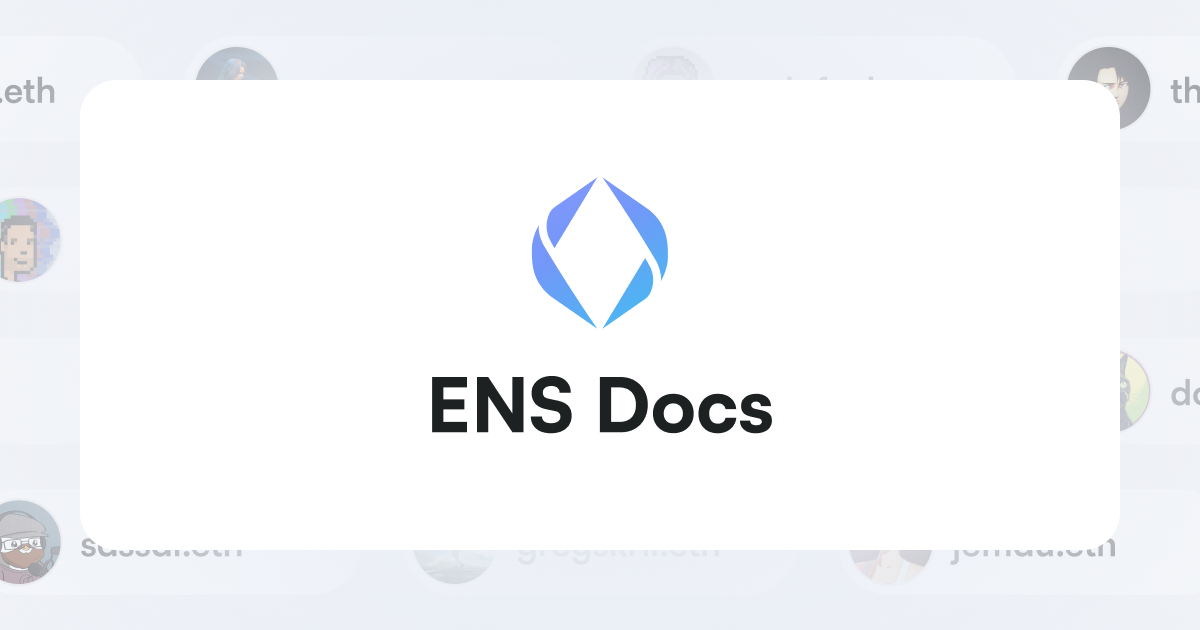
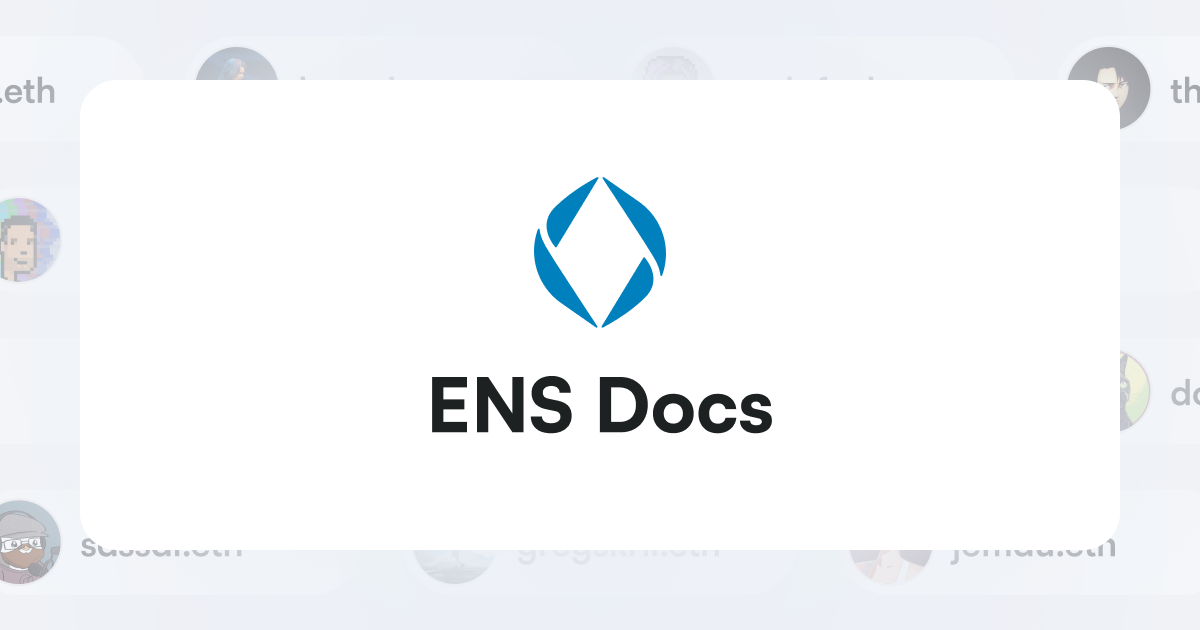
Misc fixes (dark mode bug, update branding) (#315)

Changed region(s): [[0.4317, 0.2714, 0.555, 0.5127]]

diff --git a/app/app/opengraph/[...slug]/route.tsx b/app/app/opengraph/[...slug]/route.tsx
@@ -7,44 +7,6 @@ import { readFile } from 'node:fs/promises';
 import { getProfilePicture } from '@/utils/contributorHelper';
 import { navigation } from '#/config/navigation';
 
-// Route segment config
-// export const runtime = 'nodejs';
-// export const runtime = 'edge';
-// export const dynamic = 'error';
-// eslint-disable-next-line unicorn/prevent-abbreviations
-// export const dynamicParams = false;
-// export const revalidate = false;
-
-// eslint-disable-next-line unicorn/prevent-abbreviations
-// export async function generateStaticParams() {
-//     const pages = ['a/b'];
-
-//     return pages.map((slug) => ({
-//         slug: slug.split('/'),
-//     }));
-// }
-
-// export async function generateImageMetadata({
-//     params,
-// }: {
-//     params: { slug: string };
-// }) {
-//     // const images = await getOGImages(params.id);
-//     const images = [{ text: 'Other text' }, { text: 'O:' + params.slug }];
-
-//     return images.map((image, index) => ({
-//         id: index,
-//         size: { width: 1600, height: 840 },
-//         alt: image.text,
-//         contentType: 'image/png',
-//     }));
-// }
-
-// Font
-// const interSemiBold = fetch(
-//     new URL('public/Inter-SemiBold.ttf', import.meta.url)
-// ).then((response) => response.arrayBuffer());
-
 // eslint-disable-next-line unicorn/prevent-abbreviations
 export async function generateStaticParams() {
     if (process.env.NODE_ENV !== 'production') return [];
@@ -148,89 +110,29 @@ export async function GET(request: NextRequest) {
                         }}
                     >
                         <svg
-                            width="227"
+                            width="228"
                             height="100"
-                            viewBox="0 0 227 100"
+                            viewBox="0 0 228 100"
                             fill="none"
                             xmlns="http://www.w3.org/2000/svg"
                         >
-                            <path
-                                d="M12.6045 23.5283C13.54 21.7914 14.8903 20.3107 16.536 19.2168L44.156 0L15.856 46.6253C15.856 46.6253 13.3833 42.4619 12.4189 40.3552C11.2172 37.7064 10.6112 34.8281 10.6432 31.9213C10.6752 29.0147 11.3446 26.1501 12.6045 23.5283ZM1.20533 55.6918C1.51718 60.1506 2.78154 64.4915 4.91376 68.4238C7.04599 72.3564 9.99684 75.7893 13.5688 78.4933L44.1188 99.718C44.1188 99.718 25.0049 72.2726 8.88303 44.9625C7.25084 42.0771 6.15358 38.9226 5.6438 35.6497C5.41812 34.1677 5.41812 32.6601 5.6438 31.178C5.22343 31.9543 4.40745 33.5433 4.40745 33.5433C2.77276 36.8649 1.65945 40.4171 1.10642 44.0756C0.788106 47.9427 0.82121 51.8305 1.20533 55.6918ZM79.095 59.3872C78.1057 57.2808 75.6578 53.1171 75.6578 53.1171L47.4075 99.718L75.0273 80.5134C76.6731 79.4195 78.0234 77.939 78.959 76.2021C80.2188 73.5802 80.888 70.7156 80.9203 67.8092C80.9523 64.9024 80.3462 62.0238 79.1444 59.375L79.095 59.3872ZM90.3084 44.0384C89.9965 39.5799 88.7322 35.2387 86.6002 31.3064C84.4679 27.3741 81.517 23.9409 77.945 21.237L47.4444 0C47.4444 0 66.5459 27.4455 82.6804 54.7555C84.3081 57.6418 85.4011 60.7963 85.9072 64.0683C86.1328 65.5503 86.1328 67.0579 85.9072 68.5399C86.3276 67.7637 87.1435 66.1747 87.1435 66.1747C88.7783 62.853 89.8917 59.3009 90.4444 55.6424C90.767 51.7756 90.738 47.8878 90.3581 44.0262L90.3084 44.0384Z"
-                                fill="url(#paint0_linear_1655_5073)"
-                            />
-                            <path
-                                d="M140.968 70.7317V62.7256H122.122V52.6256H139.182V45.0506H122.122V35.0738H140.968V27.0677H113.624V70.7317H140.968Z"
-                                fill="url(#paint1_linear_1655_5073)"
-                            />
-                            <path
-                                d="M186.547 70.7317V27.0677H178.048V55.9512L159.881 27.0677H149.288V70.7317H157.787V39.7543L177.617 70.7317H186.547Z"
-                                fill="url(#paint2_linear_1655_5073)"
-                            />
-                            <path
-                                d="M226.238 37.4756C225.252 32.5488 221.188 26.1439 210.595 26.1439C202.343 26.1439 195.384 32.0561 195.384 39.8158C195.384 46.4055 199.879 50.9012 206.838 52.3177L212.935 53.5494C216.323 54.2268 218.232 56.1976 218.232 58.7226C218.232 61.8018 215.707 64.0805 211.149 64.0805C204.991 64.0805 201.973 60.2006 201.604 55.8896L193.721 57.9835C194.398 64.2037 199.51 71.6555 211.088 71.6555C221.249 71.6555 226.854 64.8811 226.854 58.1683C226.854 52.0098 222.604 46.8366 214.66 45.2969L208.563 44.1268C205.36 43.511 203.821 41.6018 203.821 39.2C203.821 36.3055 206.531 33.6573 210.657 33.6573C216.199 33.6573 218.17 37.414 218.601 39.8158L226.238 37.4756Z"
-                                fill="url(#paint3_linear_1655_5073)"
-                            />
+                            <g clip-path="url(#clip0_1593_5439)">
+                                <path
+                                    fill-rule="evenodd"
+                                    clip-rule="evenodd"
+                                    d="M33.5223 15.077C33.1353 14.8069 32.6585 15.2675 32.9178 15.6608C37.2488 22.2296 51.6458 44.0856 53.6345 47.3665C53.9316 47.8566 54.2722 48.3959 54.6374 48.9741L54.6376 48.9743C56.6838 52.214 59.503 56.6776 59.7761 60.5819C59.8082 61.0412 60.4452 61.1344 60.6054 60.7025C60.8639 60.0058 61.139 59.1743 61.3954 58.2244C64.6324 46.2338 59.9313 33.51 49.7215 26.3838L33.5223 15.077ZM30.8586 15.647L11.4686 47.4617C11.3165 47.7112 10.9632 47.739 10.7746 47.5157C9.06758 45.4946 2.70804 36.8961 10.5773 29.0591C17.7581 21.9078 26.9043 16.809 30.294 15.0468C30.6786 14.8469 31.0837 15.2777 30.8586 15.647ZM29.7749 84.9234C30.1618 85.1935 30.6387 84.7328 30.3793 84.3395C26.0483 77.7707 11.6514 55.9147 9.6626 52.6338C9.36548 52.1437 9.02485 51.6044 8.65958 51.026C6.61335 47.7863 3.79411 43.3228 3.52101 39.4185C3.48889 38.9591 2.85192 38.8659 2.69168 39.2978C2.43327 39.9945 2.15815 40.826 1.90173 41.7759C-1.33524 53.7666 3.36584 66.4903 13.5756 73.6165L29.7749 84.9234ZM51.8301 52.5352L32.4401 84.35C32.215 84.7193 32.6201 85.1501 33.0047 84.9502C36.3944 83.1879 45.5407 78.0892 52.7214 70.9379C60.5906 63.1009 54.2311 54.5024 52.5241 52.4813C52.3355 52.258 51.9822 52.2858 51.8301 52.5352ZM120.059 30.0646C124.965 35.0469 127.436 42.6194 127.644 52.2092C127.652 52.5617 127.372 52.8539 127.019 52.8651L91.3473 53.9912C90.9863 54.0026 90.7034 54.3081 90.7281 54.668C91.2814 62.6987 95.4356 66.6848 102.812 66.452C109.036 66.2554 112.178 63.4409 113.155 58.5204C113.22 58.1945 113.511 57.9582 113.843 57.9769L126.267 58.6776C126.667 58.7001 126.951 59.0788 126.853 59.4668C124.091 70.3685 115.868 76.0354 103.128 76.4376C95.2505 76.6863 88.9092 74.3623 84.5367 70.3608C79.539 65.7732 76.9045 59.1926 76.6364 50.7199C76.381 42.6507 78.3857 35.7218 83.1843 30.8249C87.4906 26.3474 93.4767 23.8362 101.354 23.5875C109.332 23.3356 115.674 25.6596 120.059 30.0646ZM101.664 33.3714C97.5231 33.5021 94.6326 34.805 92.7936 37.3872C91.5579 39.0819 90.8383 41.1792 90.5561 43.6054C90.5115 43.9888 90.8238 44.3151 91.2101 44.3029L112.293 43.6373C112.676 43.6252 112.966 43.2859 112.906 42.9082C112.463 40.1042 111.57 37.7582 109.836 36.0414C107.853 34.0847 105.299 33.2566 101.664 33.3714ZM181.603 60.6285C182.912 71.7844 192.771 76.4548 204.577 76.4548C216.399 76.4548 227.11 72.62 227.11 60.5101C227.11 48.5948 216.068 46.1176 207.112 44.1082L206.901 44.0609C200.131 42.5472 196.494 41.3362 196.494 37.9051C196.494 34.3731 199.929 32.8593 204.072 32.8593C208.902 32.8593 212.162 35.1654 212.704 40.3067C212.745 40.6918 213.097 40.9763 213.479 40.9112L225.191 38.9164C225.531 38.8586 225.766 38.5412 225.717 38.2008C224.141 27.176 214.785 23.5751 203.87 23.5751C192.957 23.5751 183.156 27.9145 183.156 39.0152C183.156 49.4095 192.048 52.4369 201.748 54.758C209.73 56.6754 213.57 57.8863 213.57 61.2165C213.57 64.9504 210.64 67.0696 204.88 67.0696C199.449 67.0696 195.507 64.5589 195.021 59.002C194.988 58.6217 194.651 58.3318 194.271 58.3802L182.157 59.9267C181.812 59.9708 181.563 60.2833 181.603 60.6285ZM178.238 44.4256C178.238 37.8661 177.733 32.4167 173.691 28.3801C170.458 25.1508 166.719 23.6371 160.253 23.6371C154.151 23.6371 148.747 25.7272 145.905 31.1212C145.76 31.3957 145.298 31.2976 145.298 30.9874V25.4958C145.298 25.1381 145.008 24.8481 144.65 24.8481H131.902C131.544 24.8481 131.253 25.1381 131.253 25.4958V75.3664C131.253 75.7241 131.544 76.0141 131.902 76.0141H144.751C145.109 76.0141 145.399 75.7241 145.399 75.3664V47.7558C145.399 37.3616 150.451 34.435 154.796 34.435C157.828 34.435 159.545 34.7378 161.364 36.4533C163.587 38.5725 163.991 40.9945 163.991 45.6366V75.3664C163.991 75.7241 164.281 76.0141 164.64 76.0141H177.59C177.948 76.0141 178.238 75.7241 178.238 75.3664V44.4256Z"
+                                    fill="#0080BC"
+                                />
+                            </g>
                             <defs>
-                                <linearGradient
-                                    id="paint0_linear_1655_5073"
-                                    x1="151.401"
-                                    y1="111.536"
-                                    x2="98.1697"
-                                    y2="-100.776"
-                                    gradientUnits="userSpaceOnUse"
-                                >
-                                    <stop stop-color="#44BCF0" />
-                                    <stop
-                                        offset="0.378795"
-                                        stop-color="#7298F8"
+                                <clipPath id="clip0_1593_5439">
+                                    <rect
+                                        width="226.22"
+                                        height="100"
+                                        fill="white"
+                                        transform="translate(0.890137)"
                                     />
-                                    <stop offset="1" stop-color="#A099FF" />
-                                </linearGradient>
-                                <linearGradient
-                                    id="paint1_linear_1655_5073"
-                                    x1="151.401"
-                                    y1="111.536"
-                                    x2="98.1697"
-                                    y2="-100.776"
-                                    gradientUnits="userSpaceOnUse"
-                                >
-                                    <stop stop-color="#44BCF0" />
-                                    <stop
-                                        offset="0.378795"
-                                        stop-color="#7298F8"
-                                    />
-                                    <stop offset="1" stop-color="#A099FF" />
-                                </linearGradient>
-                                <linearGradient
-                                    id="paint2_linear_1655_5073"
-                                    x1="151.401"
-                                    y1="111.536"
-                                    x2="98.1697"
-                                    y2="-100.776"
-                                    gradientUnits="userSpaceOnUse"
-                                >
-                                    <stop stop-color="#44BCF0" />
-                                    <stop
-                                        offset="0.378795"
-                                        stop-color="#7298F8"
-                                    />
-                                    <stop offset="1" stop-color="#A099FF" />
-                                </linearGradient>
-                                <linearGradient
-                                    id="paint3_linear_1655_5073"
-                                    x1="151.401"
-                                    y1="111.536"
-                                    x2="98.1697"
-                                    y2="-100.776"
-                                    gradientUnits="userSpaceOnUse"
-                                >
-                                    <stop stop-color="#44BCF0" />
-                                    <stop
-                                        offset="0.378795"
-                                        stop-color="#7298F8"
-                                    />
-                                    <stop offset="1" stop-color="#A099FF" />
-                                </linearGradient>
+                                </clipPath>
                             </defs>
                         </svg>
                     </div>

diff --git a/app/local/content/prose/code/_legacy/CopyButton.tsx b/app/local/content/prose/code/_legacy/CopyButton.tsx
@@ -8,55 +8,9 @@ import { FiPaperclip } from 'react-icons/fi';
 
 import { ClipboardIcon } from '@/components/icons/ClipboardIcon';
 
-const getCopiedLabel = (copyCount) => {
-    // if (copyCount > 200) {
-    //     return 'Buy a new mouse!';
-    // }
-
-    if (copyCount > 200) {
-        return 'Yes, its copied!';
-    }
-
-    if (copyCount > 120) {
-        return 'Copied!';
-    }
-
-    if (copyCount > 100) {
-        // Written by co-pilot
-        return 'Determination... I like it';
-    }
-
-    if (copyCount > 60) {
-        // Written by co-pilot
-        return 'Sigh.... you are still copying?';
-    }
-
-    if (copyCount > 50) {
-        // Written by co-pilot
-        return 'You are a mad lad';
-    }
-
-    if (copyCount > 45) {
-        // Written by co-pilot
-        return 'Ok... you are just showing off now';
-    }
-
-    if (copyCount > 35) {
-        // Written by co-pilot
-        return 'I hope you actually know what code youre copying 🤔';
-    }
-
-    if (copyCount > 30) {
-        // Written by co-pilot
-        return 'BUILD BUILD BUILD BUILD BUILD BUILD!!!!';
-    }
-
+const getCopiedLabel = (copyCount: number) => {
     if (copyCount > 25) {
-        return 'Coding Powers Unlocked 😎🚀';
-    }
-
-    if (copyCount > 20) {
-        return 'Seriously? You have got to be kidding right?!';
+        return 'Yes, its copied!';
     }
 
     if (copyCount > 15) {
@@ -93,10 +47,10 @@ export const CopyButton = ({ code }) => {
             <motion.button
                 type="button"
                 className={clsx(
-                    'group/button absolute right-4 top-3.5 h-7 w-auto overflow-hidden whitespace-nowrap rounded-full py-1 pl-2 pr-3 text-2xs font-medium opacity-0 backdrop-blur transition focus:opacity-100 group-hover:opacity-100',
+                    'group/button text-2xs absolute right-4 top-3.5 h-7 w-auto overflow-hidden whitespace-nowrap rounded-full py-1 pl-2 pr-3 font-medium opacity-0 backdrop-blur transition focus:opacity-100 group-hover:opacity-100',
                     copied
                         ? 'ring-ens-400/20 bg-ens-light-blue-400/10 ring-1 ring-inset'
-                        : 'bg-white/5 hover:bg-white/7.5 dark:bg-white/2.5 dark:hover:bg-white/5'
+                        : 'hover:bg-white/7.5 dark:bg-white/2.5 bg-white/5 dark:hover:bg-white/5'
                 )}
                 onClick={() => {
                     window.navigator.clipboard.writeText(code).then(() => {
@@ -124,7 +78,7 @@ export const CopyButton = ({ code }) => {
                     <motion.span
                         aria-hidden={!copied}
                         className={clsx(
-                            'pointer-events-none flex w-full items-center justify-end gap-1 whitespace-nowrap text-ens-light-blue-400 transition duration-300',
+                            'text-ens-light-blue-400 pointer-events-none flex w-full items-center justify-end gap-1 whitespace-nowrap transition duration-300',
                             !copied && 'opacity-0'
                         )}
                         initial={{ y: 0 }}

diff --git a/app/local/content/prose/code/snippet/CodeSnippet.tsx b/app/local/content/prose/code/snippet/CodeSnippet.tsx
@@ -31,13 +31,9 @@ export type CodePanelProperties = {
 } & CodeSnippetProperties;
 
 export const CodePanel: FC<PropsWithChildren<CodePanelProperties>> = ({
-    // tag,
-    // label,
-    // code,
     link,
     stackblitz,
     title,
-    hideCopy: _hideCopy,
     language,
     variant,
     children,
@@ -99,7 +95,7 @@ export const CodePanel: FC<PropsWithChildren<CodePanelProperties>> = ({
         >
             <div
                 className={clsx(
-                    'overflow-hidden border border-ens-light-border dark:border-ens-dark-border',
+                    'border-ens-light-border dark:border-ens-dark-border overflow-hidden border',
                     isStandaloneCodeSnippet ? 'rounded-xl' : 'rounded-b-xl'
                 )}
             >
@@ -121,7 +117,7 @@ export const CodePanel: FC<PropsWithChildren<CodePanelProperties>> = ({
                     >
                         {children}
                     </pre>
-                    {_hideCopy || <CopyButton code={code} />}
+                    {!!code && <CopyButton code={code} />}
                 </div>
             </div>
             {(link || stackblitz) && (
@@ -131,7 +127,7 @@ export const CodePanel: FC<PropsWithChildren<CodePanelProperties>> = ({
                             <Link
                                 href={link}
                                 target="_blank"
-                                className="flex items-center gap-1 text-ens-light-blue-primary hover:underline dark:text-ens-dark-blue-primary"
+                                className="text-ens-light-blue-primary dark:text-ens-dark-blue-primary flex items-center gap-1 hover:underline"
                             >
                                 <FiExternalLink />
                                 Read more
@@ -143,7 +139,7 @@ export const CodePanel: FC<PropsWithChildren<CodePanelProperties>> = ({
                             <Link
                                 href={stackblitz}
                                 target="_blank"
-                                className="rounded-md p-1 pr-2 text-xs text-ens-light-blue-primary transition hover:bg-gray-100 dark:text-ens-dark-blue-primary"
+                                className="text-ens-light-blue-primary dark:text-ens-dark-blue-primary rounded-md p-1 pr-2 text-xs transition hover:bg-gray-100"
                             >
                                 <img
                                     src="/icons/stackblitz.svg"

diff --git a/app/local/content/extras/deployments/deployment.tsx b/app/local/content/extras/deployments/deployment.tsx
@@ -45,7 +45,7 @@ const ChainDeployment: FC<{
 }> = async ({ identifier, preset, chain }) => {
     return (
         <div
-            className="hidable-code not-prose group overflow-hidden rounded-b-xl border border-ens-light-border dark:border-ens-dark-border"
+            className="hidable-code not-prose border-ens-light-border dark:border-ens-dark-border group overflow-hidden rounded-b-xl border"
             data-code-variant={preset}
             data-code-group={identifier}
         >
@@ -53,13 +53,13 @@ const ChainDeployment: FC<{
                 withDeploymentData(chain.slug, (deployment, data) => (
                     <div
                         key={deployment.name}
-                        className="group flex flex-col justify-between gap-2 border-b border-b-ens-light-border p-4 last:border-b-0 dark:border-b-ens-dark-border md:flex-row md:items-center"
+                        className="border-b-ens-light-border dark:border-b-ens-dark-border group flex flex-col justify-between gap-2 border-b p-4 last:border-b-0 md:flex-row md:items-center"
                     >
                         <div className="">
                             <div className="text-base font-bold leading-5">
                                 {deployment.name}
                             </div>
-                            <div className="flex flex-wrap gap-x-2 text-sm font-bold text-ens-light-blue-primary">
+                            <div className="text-ens-light-blue-primary flex flex-wrap gap-x-2 text-sm font-bold">
                                 {deployment.path && (
                                     <Link
                                         href={`https://github.com/ensdomains/ens-contracts/blob/${
@@ -111,7 +111,7 @@ const ChainDeployment: FC<{
                         </div>
                         <div
                             className={
-                                'flex items-center justify-between gap-2 overflow-x-auto rounded-lg border border-ens-light-border bg-ens-light-background-secondary px-3 py-[10px] text-base md:w-[480px]'
+                                'flex items-center justify-between gap-2 overflow-x-auto rounded-lg border px-3 py-[10px] text-base md:w-[480px]'
                             }
                         >
                             <pre className="text-wrap break-all p-0 text-base">

diff --git a/app/local/content/prose/code/group/CodeGroup.tsx b/app/local/content/prose/code/group/CodeGroup.tsx
@@ -50,7 +50,7 @@ export const CodeGroup: FC<PropsWithChildren<CodeGroupProperties>> = ({
     const hasTabs = Children.count(children) > 1;
 
     return (
-        <div className="my-6 bg-[--var(--shiki-color-background)] text-ens-light-text-primary dark:text-ens-dark-text-primary ">
+        <div className="text-ens-light-text-primary dark:text-ens-dark-text-primary my-6 bg-[--var(--shiki-color-background)] ">
             <CodeGroupHeader
                 snippets={codeSnippets}
                 title={title}
